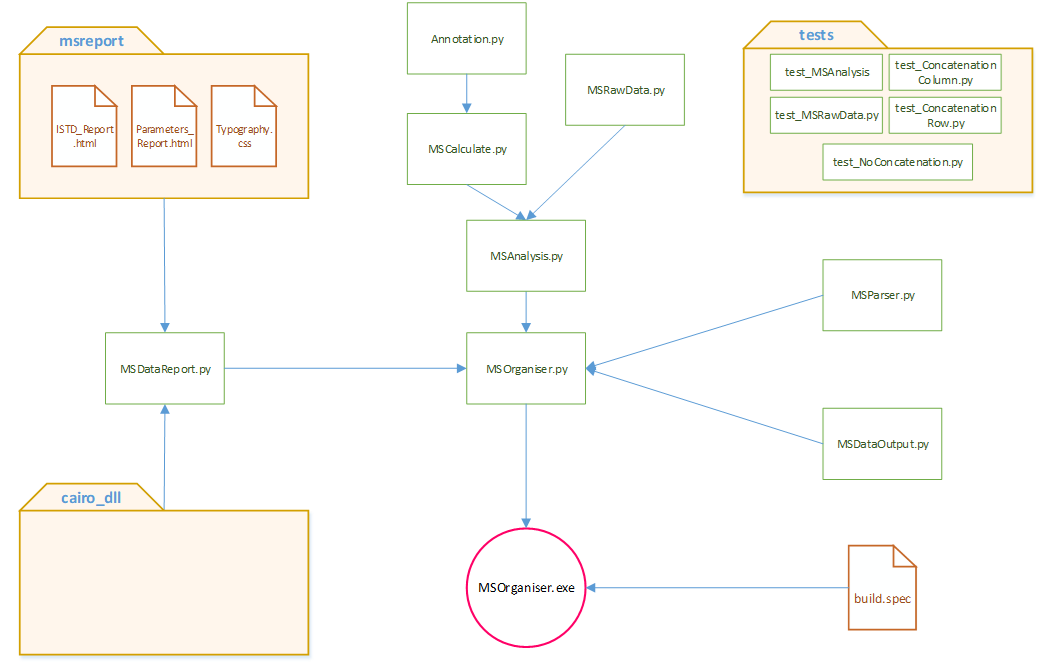
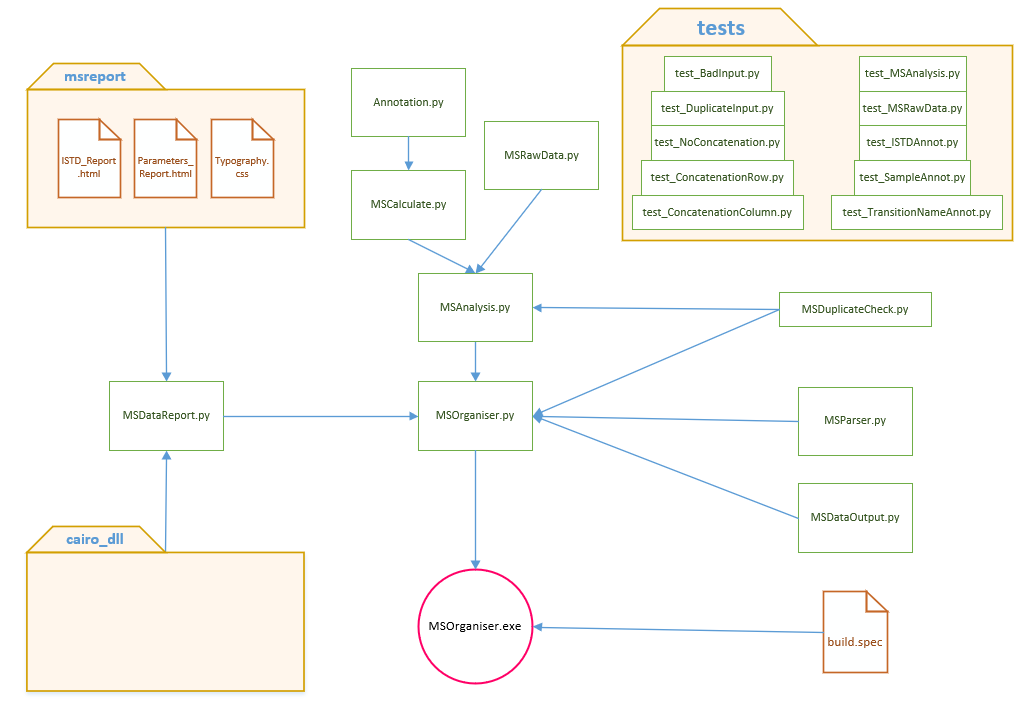
Update Sphinx Documentation.

diff --git a/MSDuplicateCheck.py b/MSDuplicateCheck.py
@@ -4,6 +4,16 @@ from collections import Counter
 def check_duplicated_columns_in_wide_data(input_wide_data, output_option,
                                           logger = None, ingui = True,
                                           allow_multiple_istd = False):
+    """Function to check for duplicate column names (usually Transition Name) in a given wide data.
+
+    Args:
+        input_wide_data (pandas DataFrame): A data frame of sample as rows and transition names as columns
+        output_option (str): The name of the contents that the data frame contains. Example: Area, RT etc...
+        logger (object): logger object created by start_logger in MSOrganiser
+        ingui (bool): if True, print analysis status to screen
+        allow_multiple_istd (bool): if True, allow input_wide_data to have mulitple internal standards
+
+    """
 
     # Convert the dataframe column name to a list
     column_name_list = input_wide_data.columns.values.tolist()
@@ -39,6 +49,16 @@ def check_duplicated_columns_in_wide_data(input_wide_data, output_option,
 def check_duplicated_sample_names_in_wide_data(input_wide_data, output_option,
                                                logger = None, ingui = True,
                                                allow_multiple_istd = False):
+    """Function to check for duplicate sample names in a given wide data.
+
+    Args:
+        input_wide_data (pandas DataFrame): A data frame of sample as rows and transition names as columns
+        output_option (str): The name of the contents that the data frame contains. Example: Area, RT etc...
+        logger (object): logger object created by start_logger in MSOrganiser
+        ingui (bool): if True, print analysis status to screen
+        allow_multiple_istd (bool): if True, allow input_wide_data to have mulitple internal standards
+
+    """
 
     # Convert the sample name column to a list
     unique_Sample_Name_list = []

diff --git a/docs/source/conf.py b/docs/source/conf.py
@@ -23,13 +23,13 @@ sys.path.append(os.path.abspath('../../tests'))
 # -- Project information -----------------------------------------------------
 
 project = 'MSOrganiser'
-copyright = '2018, SLING'
+copyright = '2021, SLING'
 author = 'SLING'
 
 # The short X.Y version
 version = ''
 # The full version, including alpha/beta/rc tags
-release = '0.0.1'
+release = '1.1.0'
 
 
 # -- General configuration ---------------------------------------------------
@@ -106,7 +106,8 @@ html_theme = 'sphinx_rtd_theme'
 # Add any paths that contain custom static files (such as style sheets) here,
 # relative to this directory. They are copied after the builtin static files,
 # so a file named "default.css" will overwrite the builtin "default.css".
-html_static_path = ['_static']
+# https://djangocas.dev/blog/sphinx-doc-101-introduction-to-sphinx-doc/#warning-html_static_path-entry-_static-does-not-exist
+html_static_path = []
 
 # Custom sidebar templates, must be a dictionary that maps document names
 # to template names.

diff --git a/MSAnalysis.py b/MSAnalysis.py
@@ -194,10 +194,11 @@ class MS_Analysis():
 
         #Check if the Long Table has data
         if self.LongTable_df.empty:
-            if self.logger:
-                self.logger.warning("Long Table has no data")
-            if self.ingui:
-                print("Long Table has no data",flush=True)
+            # No need to give warning as MSDataOutput.py will give this warning
+            #if self.logger:
+            #    self.logger.warning("Long Table has no data")
+            #if self.ingui:
+            #    print("Long Table has no data",flush=True)
             return self.LongTable_df
 
         #If we ask for the Sample Type and Transition Name ISTD to be present in the Long Table and an annotation file is given

diff --git a/docs/source/testunits/index.rst b/docs/source/testunits/index.rst
@@ -7,8 +7,13 @@ Contains functions and codes related to:
 .. toctree::
    :caption: Modules used:
 
-   test_MSRawData
-   test_MSAnalysis
-   test_NoConcatenation
-   test_ConcatenationRow
+   test_BadInput
    test_ConcatenationColumn
+   test_ConcatenationRow
+   test_DuplicateInput
+   test_ISTDAnnot
+   test_MSAnalysis
+   test_MSRawData
+   test_NoConcatenation
+   test_SampleAnnot
+   test_TransitionNameAnnot

diff --git a/docs/source/duplicatecheck/index.rst b/docs/source/duplicatecheck/index.rst
@@ -1,0 +1,11 @@
+Duplicate Check Modules
+===================
+Contains functions and codes related to:
+
+* Checking for duplicate columns (usually Transition Name) in wide data
+* Checking for duplicate sample names in wide data
+
+.. toctree::
+   :caption: Modules used:
+
+   MSDuplicateCheck

diff --git a/docs/source/index.rst b/docs/source/index.rst
@@ -21,9 +21,10 @@ Code Structure Outline
    :titlesonly:
    :caption: Code Structure Summary:
 
-   wrapper/index
-   parser/index
-   fileinput/index
    analysis/index
+   duplicatecheck/index
+   fileinput/index
    fileoutput/index
+   parser/index
    testunits/index
+   wrapper/index

diff --git a/docs/source/duplicatecheck/MSDuplicateCheck.rst b/docs/source/duplicatecheck/MSDuplicateCheck.rst
@@ -1,0 +1,8 @@
+MSDuplicateCheck
+================
+
+.. automodule:: MSDuplicateCheck
+    :members:
+    :undoc-members:
+    :show-inheritance:
+	:noindex:

diff --git a/docs/source/testunits/test_TransitionNameAnnot.rst b/docs/source/testunits/test_TransitionNameAnnot.rst
@@ -1,0 +1,7 @@
+test\_TransitionNameAnnot
+======================
+
+.. automodule:: test_TransitionNameAnnot
+    :members:
+    :undoc-members:
+	:noindex:

diff --git a/docs/source/testunits/test_DuplicateInput.rst b/docs/source/testunits/test_DuplicateInput.rst
@@ -1,0 +1,7 @@
+test\_DuplicateInput
+======================
+
+.. automodule:: test_DuplicateInput
+    :members:
+    :undoc-members:
+	:noindex:

diff --git a/docs/source/testunits/test_SampleAnnot.rst b/docs/source/testunits/test_SampleAnnot.rst
@@ -1,0 +1,7 @@
+test\_SampleAnnot
+======================
+
+.. automodule:: test_SampleAnnot
+    :members:
+    :undoc-members:
+	:noindex:

diff --git a/docs/source/testunits/test_ISTDAnnot.rst b/docs/source/testunits/test_ISTDAnnot.rst
@@ -1,0 +1,7 @@
+test\_ISTDAnnot
+======================
+
+.. automodule:: test_ISTDAnnot
+    :members:
+    :undoc-members:
+	:noindex:

diff --git a/docs/source/testunits/test_BadInput.rst b/docs/source/testunits/test_BadInput.rst
@@ -1,0 +1,7 @@
+test\_BadInput
+======================
+
+.. automodule:: test_BadInput
+    :members:
+    :undoc-members:
+	:noindex:
